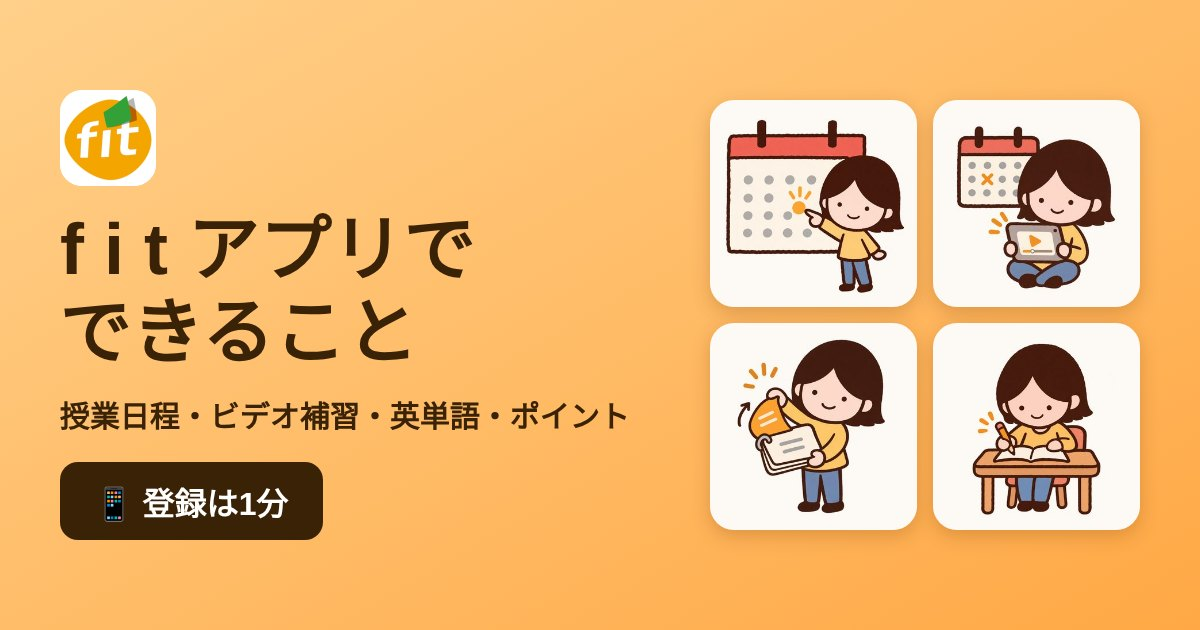
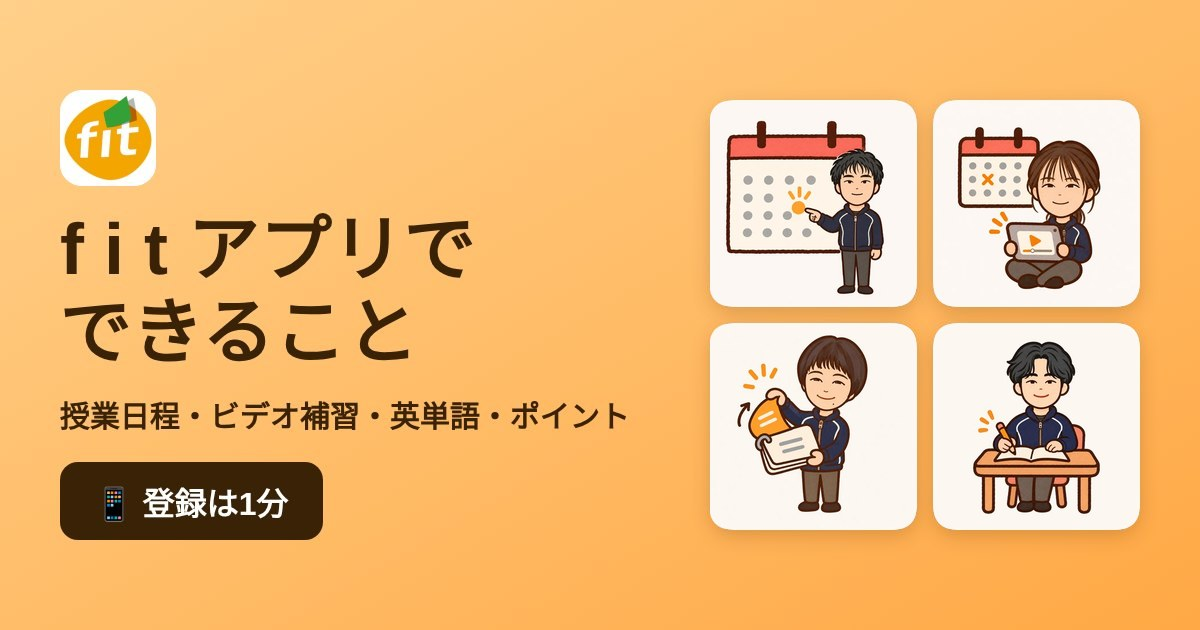
about.html: LINE 用の画像（og_about.jpg）の4枚の絵をスタッフ版に・画像のアドレスに ?v=20261115
Claude-Session: https://claude.ai/code/session_018owQgKDZqHDjEptzz6iRfs

diff --git a/about.html b/about.html
@@ -10,7 +10,7 @@
 <meta property="og:title" content="f i t アプリでできること">
 <meta property="og:description" content="授業日程・ビデオ補習・英単語や小テスト・ポイント。登録はここから1分！">
 <meta property="og:url" content="https://app.fit-ehime.com/about.html">
-<meta property="og:image" content="https://app.fit-ehime.com/img/og_about.jpg">
+<meta property="og:image" content="https://app.fit-ehime.com/img/og_about.jpg?v=20261115">
 <meta property="og:image:width" content="1200">
 <meta property="og:image:height" content="630">
 <meta name="twitter:card" content="summary_large_image">
